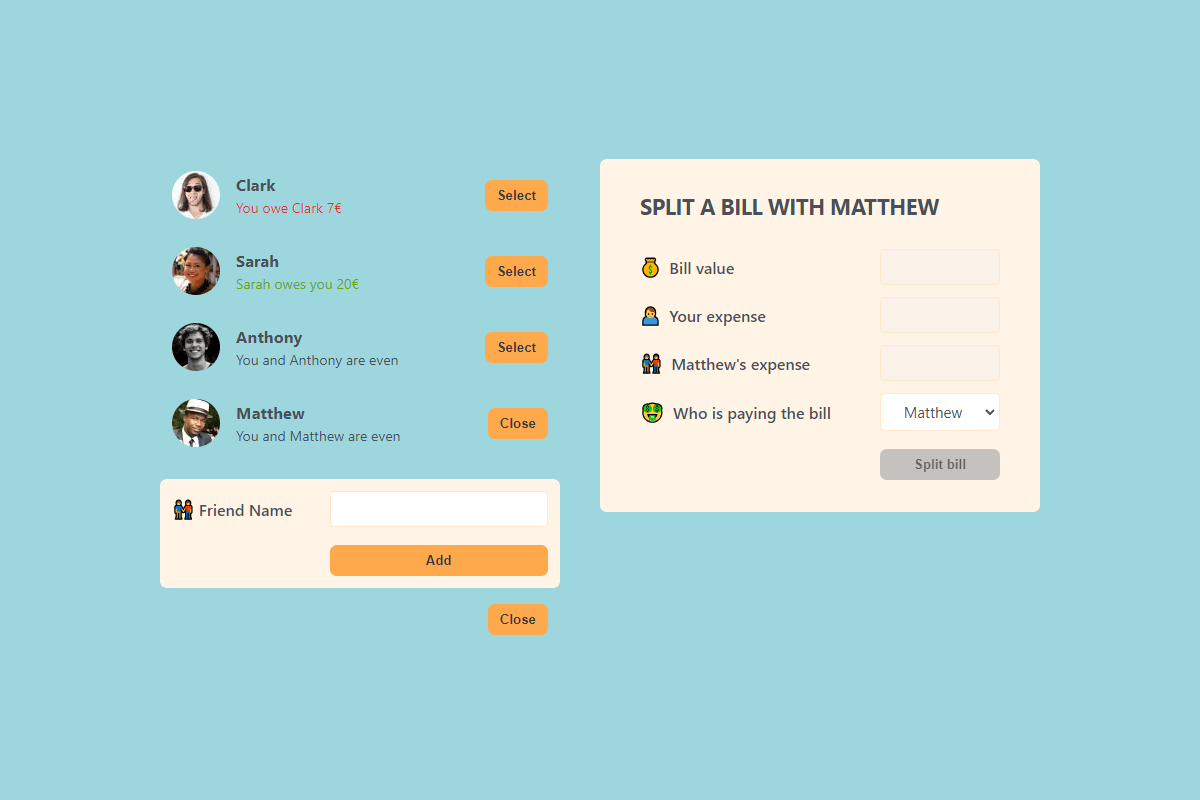
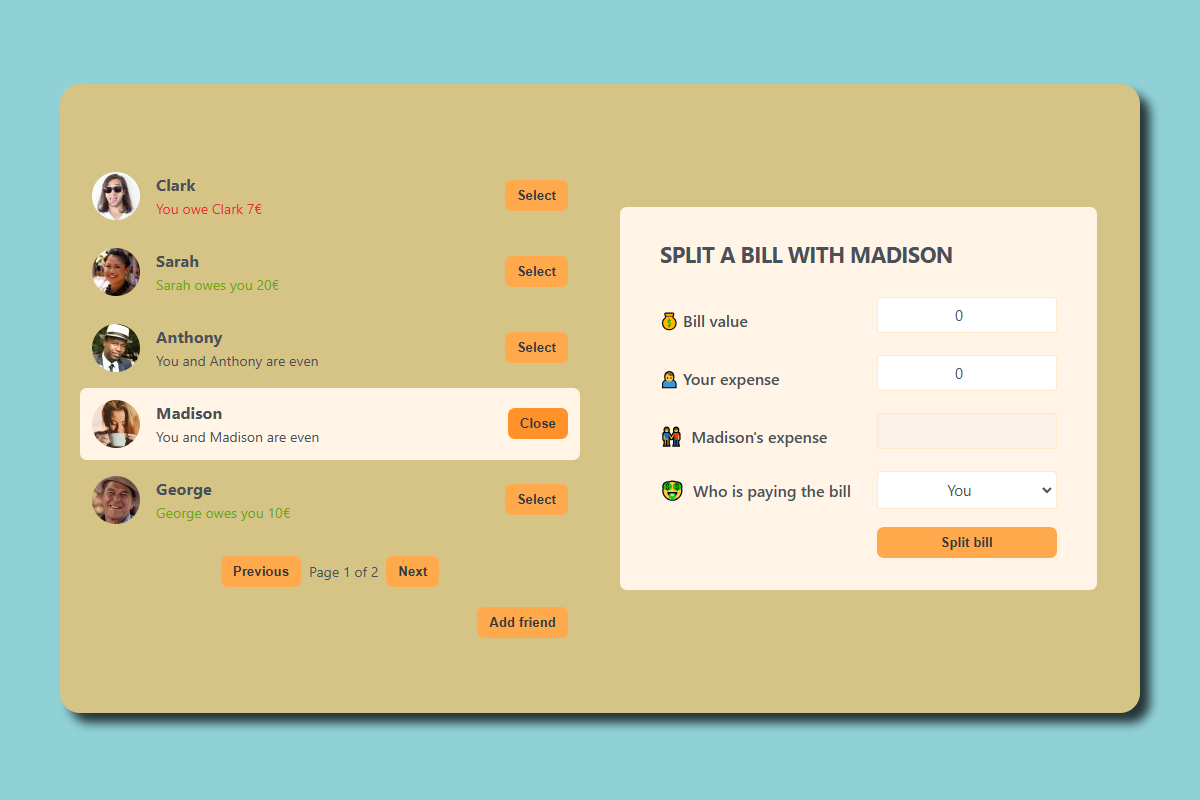
PORTFOLIO 1.3.0
Update Projects
Fix Translations
Update translationsData.json

diff --git a/README.md b/README.md
@@ -10,7 +10,7 @@
 
 - **STACK :**
 
-  - **Portfolio** : `1.2.0`
+  - **Portfolio** : `1.3.0`
   - **Swiper** : `11.1.14`
   - **React** : `18.3.1`
   - **React Dom** : `18.3.1`
